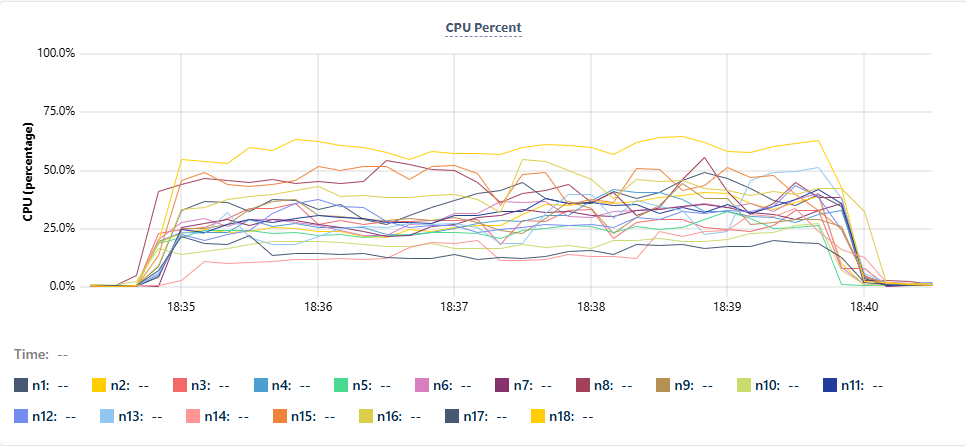
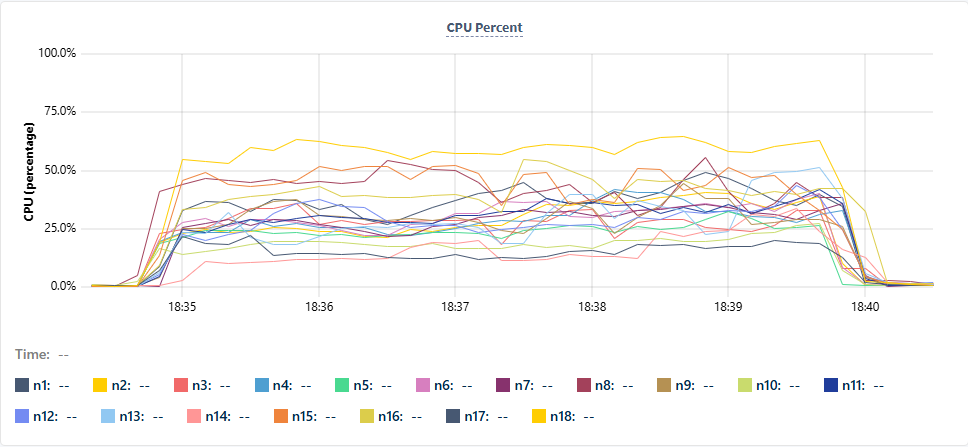
Adding additional metric graphs to the RESULTS-READOUT.md

diff --git a/RESULTS-READOUT.md b/RESULTS-READOUT.md
@@ -138,17 +138,42 @@ Suggested caption:
 
 > CockroachDB node CPU remained well below saturation during the benchmark, indicating additional throughput headroom in the cluster.
 
-## Suggested Additions
+## Open SQL Sessions
 
-If we want this readout to be even stronger, I recommend adding:
+![Open SQL Sessions](resources/Open-SQL-Sessions.png)
 
-- A screenshot of SQL sessions / connections during the run
-- The exact benchmark commands used for:
-  - less aggressive client
-  - more aggressive client
-- A short explanation that `1 logical unit = 7 inserted records`
-- A one-line explanation of `aggressive client`:
-  sending multiple full transaction blocks before pipeline sync
-- A note that the final customer-facing numbers use realistic `250-300 byte` row payloads
-- Optional:
-  a short appendix with the old-schema baseline to show how row payload size affected throughput
+Suggested caption:
+
+> Open SQL sessions rose during the benchmark as the regional app nodes maintained multiple concurrent client connections to drive sustained write throughput.
+
+## SQL Queries Per Second
+
+![SQL Queries Per Second](resources/SQL-Queries-Per-Second.png)
+
+Suggested caption:
+
+> SQL query rate increased significantly during the benchmark window, reflecting the sustained multi-region insert workload delivered by the app nodes.
+
+## Network Bytes Sent
+
+![Network Bytes Sent](resources/Network-Bytes-Sent.png)
+
+Suggested caption:
+
+> Network bytes sent increased during the run as each region continuously streamed insert traffic to CockroachDB.
+
+## Service Latency P90
+
+![Service Latency P90](resources/Service-Latency-p90.png)
+
+Suggested caption:
+
+> P90 service latency remained in a manageable range during the benchmark, indicating the cluster continued to absorb the distributed write workload without visible saturation.
+
+## Service Latency P99
+
+![Service Latency P99](resources/Service-Latency-p99.png)
+
+Suggested caption:
+
+> P99 service latency rose modestly under load but remained stable enough to support the observed sustained records-per-second rates across all three regions.